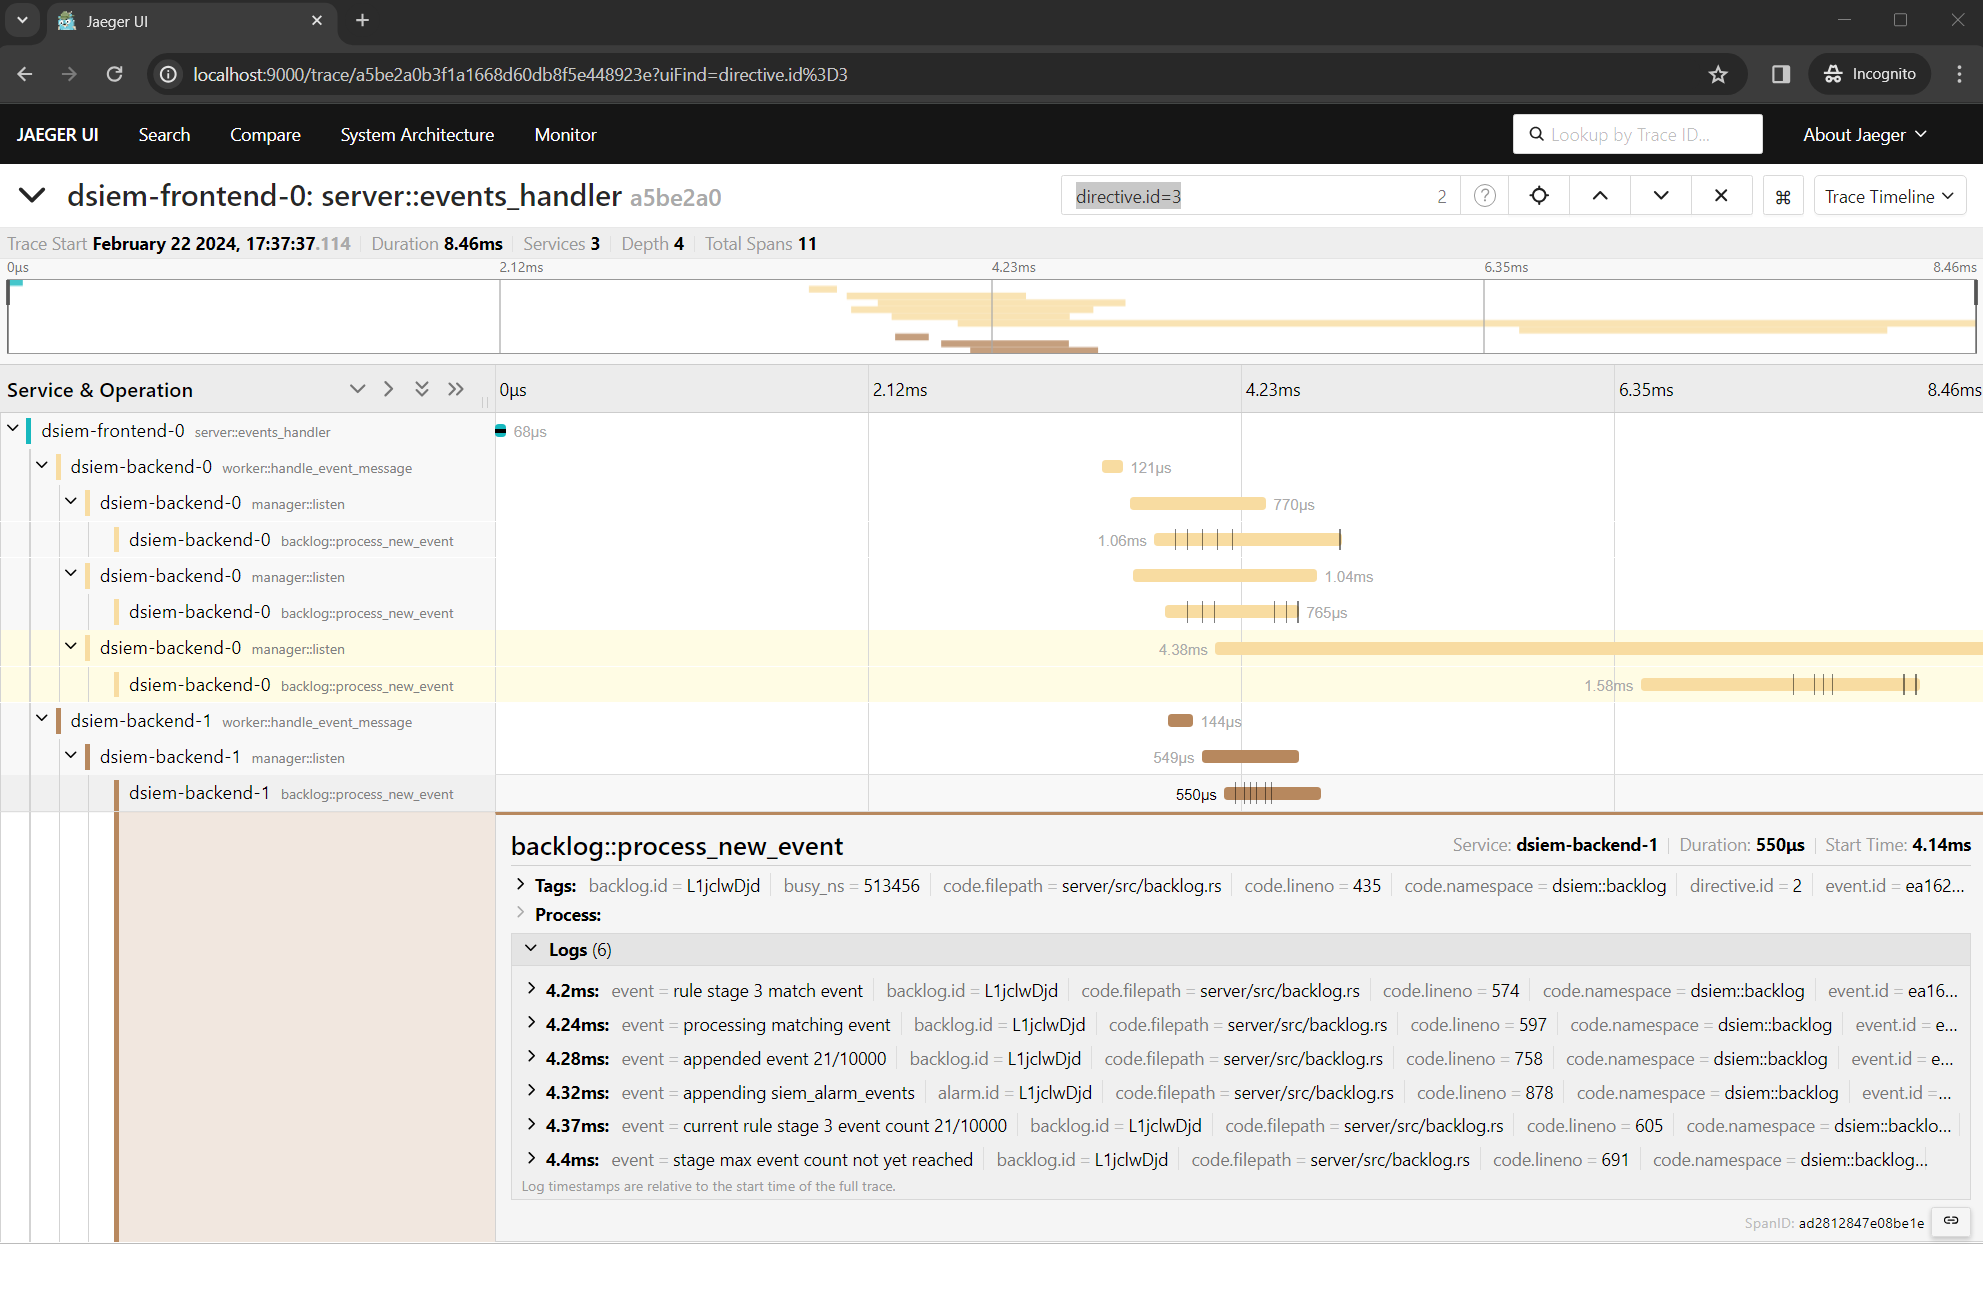
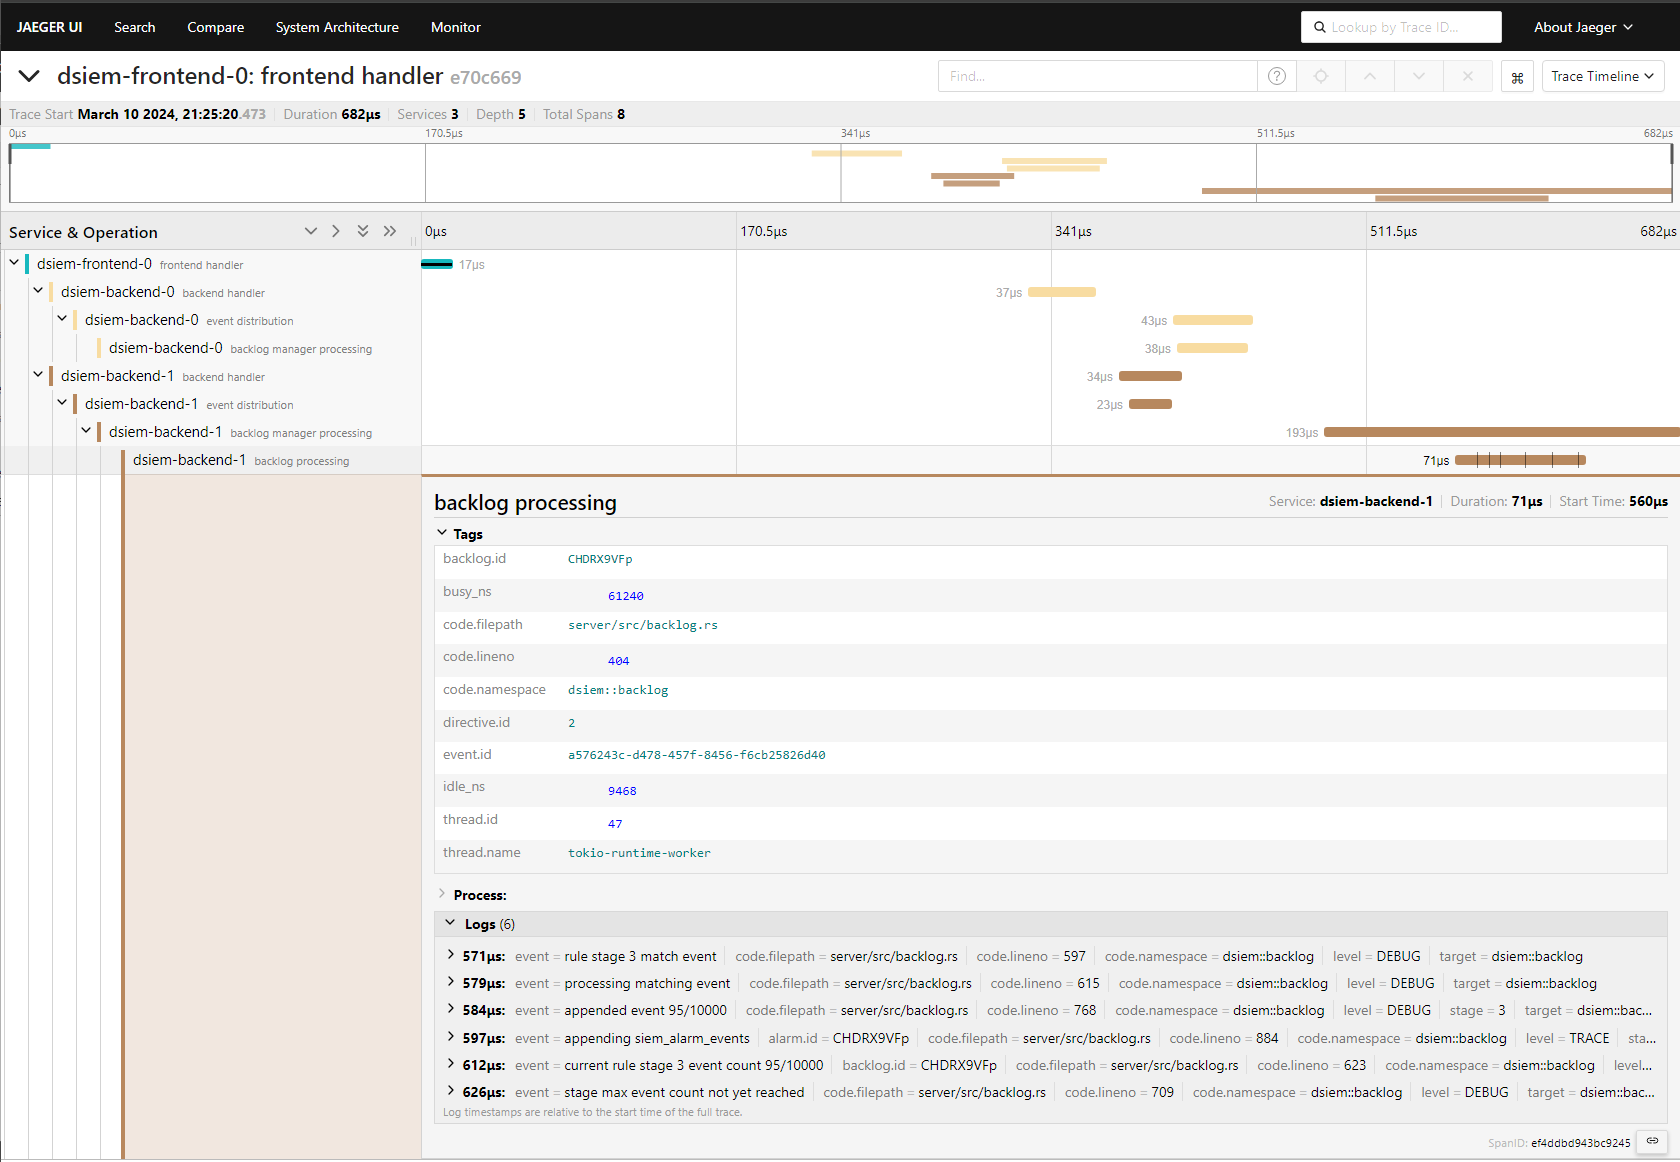
fix: otel fails to load due to missing tokio-rt (#31)
* fix: otel fail to load due to missing tokio-rt

* refactor: change runtime to current-thread

* docs: update otel screenshot

* chore: bump release

Changed region(s): [[0.0, 0.0, 1.0, 1.0], [0.7429, 0.3408, 1.0, 0.4337], [0.65, 0.9294, 0.681, 0.9604]]

diff --git a/server/src/bin/dsiem-backend.rs b/server/src/bin/dsiem-backend.rs
@@ -247,38 +247,15 @@ fn main() -> ExitCode {
 }
 
 fn log_startup_err(context: &str, err: Error) -> Error {
+    _ = tracing_subscriber::fmt().try_init();
     error!("error {}: {}", context, err);
     err
 }
 
 fn serve(listen: bool, require_logging: bool, args: Cli) -> Result<()> {
     let test_env = args.test_env;
-    let verbosity = if args.debug {
-        1
-    } else if args.trace {
-        2
-    } else {
-        args.verbosity
-    };
-    let SubCommands::ServeCommand(sargs) = args.subcommand;
-    let log_format = if args.use_json {
-        tracer::LogType::Json
-    } else {
-        tracer::LogType::Plain
-    };
-    let otel_config = tracer::OtelConfig {
-        tracing_enabled: sargs.enable_tracing,
-        metrics_enabled: sargs.enable_metrics,
-        otlp_endpoint: sargs.otel_endpoint,
-        service_name: sargs.node.to_owned(),
-    };
 
-    let subscriber = tracer::setup(verbosity, log_format, otel_config.clone())
-        .map_err(|e| log_startup_err("setting up tracer", e))?;
-    let setup_result = tracing::subscriber::set_global_default(subscriber);
-    if require_logging {
-        setup_result?;
-    }
+    let SubCommands::ServeCommand(sargs) = args.subcommand;
 
     // we take in unsigned values from CLI to make sure there's no negative numbers, and convert them
     // to signed value required by timestamp related APIs.
@@ -300,10 +277,25 @@ fn serve(listen: bool, require_logging: bool, args: Cli) -> Result<()> {
         sargs.max_queue
     };
 
-    info!(
-        "starting dsiem backend server with frontend {} and message queue {}",
-        sargs.frontend, sargs.msq
-    );
+    let log_verbosity = if args.debug {
+        1
+    } else if args.trace {
+        2
+    } else {
+        args.verbosity
+    };
+
+    let log_format = if args.use_json {
+        tracer::LogType::Json
+    } else {
+        tracer::LogType::Plain
+    };
+    let otel_config = tracer::OtelConfig {
+        tracing_enabled: sargs.enable_tracing,
+        metrics_enabled: sargs.enable_metrics,
+        otlp_endpoint: sargs.otel_endpoint,
+        service_name: sargs.node.to_owned(),
+    };
 
     let (event_tx, _) = broadcast::channel::<NormalizedEvent>(max_queue);
     let (bp_tx, bp_rx) = mpsc::channel::<()>(8);
@@ -317,45 +309,56 @@ fn serve(listen: bool, require_logging: bool, args: Cli) -> Result<()> {
     config::download_files(
         test_env,
         Some(vec!["dl_config".to_string()]),
-        sargs.frontend,
+        sargs.frontend.clone(),
         sargs.node,
     )
     .map_err(|e| log_startup_err("downloading config", e))?;
+
+    let directives = directive
+    // todo: maybe replace this kludgy way of loading test directive5
+    ::load_directives(
+        test_env,
+        Some(vec!["directives".to_string(), "directive5".to_string()]),
+    )
+    .map_err(|e| log_startup_err("loading directives", e))?;
+
+    let eps = Arc::new(Eps::default());
+
+    let n = directives.len();
+    let max_eps = sargs.max_eps;
+    let (report_tx, report_rx) = mpsc::channel::<manager::ManagerReport>(n);
+    let (resptime_tx, resptime_rx) = mpsc::channel::<f64>(n);
+    let event_tx_clone = event_tx.clone();
+    let cancel_tx_clone = cancel_tx.clone();
+    let eps_clone = eps.clone();
+
+    let handle_watchdog = thread::spawn(move || {
+        let opt = WatchdogOpt {
+            event_tx: event_tx_clone,
+            resptime_rx,
+            report_rx,
+            cancel_tx: cancel_tx_clone,
+            report_interval: REPORT_INTERVAL_IN_SECONDS,
+            max_eps,
+            otel_config,
+            eps: eps_clone,
+            log_verbosity,
+            log_format,
+            require_logging,
+        };
+        let mut w = watchdog::Watchdog::default();
+        w.start(opt).map_err(|e| anyhow!("watchdog error: {:?}", e))
+    });
+
+    info!(
+        "starting dsiem backend server with frontend {} and message queue {}",
+        sargs.frontend, sargs.msq
+    );
 
     let assets = Arc::new(
         NetworkAssets::new(test_env, Some(vec!["assets".to_string()]))
             .map_err(|e| log_startup_err("loading assets", e))?,
     );
-
-    let backend_asset = assets.clone();
-    let backend_tx = event_tx.clone();
-
-    let eps = Arc::new(Eps::default());
-
-    let eps_clone = eps.clone();
-    let handle_worker = thread::spawn(move || {
-        let opt = worker::BackendOpt {
-            event_tx: backend_tx,
-            bp_rx,
-            cancel_rx,
-            assets: backend_asset,
-            nats_url: sargs.msq,
-            hold_duration: sargs.hold_duration,
-            nats_capacity: max_queue,
-            eps: eps_clone,
-        };
-        let w = worker::Worker {};
-        w.backend_start(opt)
-            .map_err(|e| anyhow!("worker error: {:?}", e))
-    });
-
-    let directives = directive
-        // todo: maybe replace this kludgy way of loading test directive5
-        ::load_directives(
-        test_env,
-        Some(vec!["directives".to_string(), "directive5".to_string()]),
-    )
-    .map_err(|e| log_startup_err("loading directives", e))?;
 
     let thread_allocation = calculate(
         directives.len(),
@@ -379,34 +382,14 @@ fn serve(listen: bool, require_logging: bool, args: Cli) -> Result<()> {
             .map_err(|e| log_startup_err("loading vulns", e))?,
     );
 
-    let n = directives.len();
-    let (report_tx, report_rx) = mpsc::channel::<manager::ManagerReport>(n);
-    let (resptime_tx, resptime_rx) = mpsc::channel::<f64>(n);
-
-    let max_eps = sargs.max_eps;
-
-    let cancel_tx_clone = cancel_tx.clone();
-    let event_tx_clone = event_tx.clone();
-    let handle_watchdog = thread::spawn(move || {
-        let opt = WatchdogOpt {
-            event_tx: event_tx_clone,
-            resptime_rx,
-            report_rx,
-            cancel_tx: cancel_tx_clone,
-            report_interval: REPORT_INTERVAL_IN_SECONDS,
-            max_eps,
-            otel_config,
-            eps,
-        };
-        let mut w = watchdog::Watchdog::default();
-        w.start(opt).map_err(|e| anyhow!("watchdog error: {:?}", e))
-    });
+    let backend_asset = assets.clone();
+    let backend_tx = event_tx.clone();
 
     let opt = ManagerOpt {
         test_env,
         reload_backlogs: sargs.reload_backlogs,
         directives,
-        assets,
+        assets: backend_asset,
         intels,
         vulns,
         max_delay,
@@ -414,7 +397,7 @@ fn serve(listen: bool, require_logging: bool, args: Cli) -> Result<()> {
         backpressure_tx: bp_tx,
         resptime_tx,
         cancel_tx: cancel_tx.clone(),
-        publisher: event_tx,
+        publisher: backend_tx,
         med_risk_max: sargs.med_risk_max,
         med_risk_min: sargs.med_risk_min,
         default_status: sargs.status[0].clone(),
@@ -430,6 +413,22 @@ fn serve(listen: bool, require_logging: bool, args: Cli) -> Result<()> {
         manager
             .start(REPORT_INTERVAL_IN_SECONDS)
             .map_err(|e| anyhow!("manager error: {:?}", e))
+    });
+
+    let handle_worker = thread::spawn(move || {
+        let opt = worker::BackendOpt {
+            event_tx,
+            bp_rx,
+            cancel_rx,
+            assets,
+            nats_url: sargs.msq,
+            hold_duration: sargs.hold_duration,
+            nats_capacity: max_queue,
+            eps,
+        };
+        let w = worker::Worker {};
+        w.backend_start(opt)
+            .map_err(|e| anyhow!("worker error: {:?}", e))
     });
 
     if listen {

diff --git a/server/src/watchdog.rs b/server/src/watchdog.rs
@@ -10,7 +10,11 @@ use tracing::{info, warn};
 
 pub mod eps;
 
-use crate::{event::NormalizedEvent, manager::ManagerReport, tracer::OtelConfig};
+use crate::{
+    event::NormalizedEvent,
+    manager::ManagerReport,
+    tracer::{self, OtelConfig},
+};
 
 pub const REPORT_INTERVAL_IN_SECONDS: u64 = 10;
 const UNIT_MULTIPLIER: f64 = 1000000.0; // nano to milli
@@ -26,11 +30,20 @@ pub struct WatchdogOpt {
     pub max_eps: u32,
     pub otel_config: OtelConfig,
     pub eps: Arc<eps::Eps>,
+    pub log_verbosity: u8,
+    pub log_format: tracer::LogType,
+    pub require_logging: bool,
 }
 
 impl Watchdog {
     #[tokio::main(flavor = "current_thread")]
     pub async fn start(&mut self, opt: WatchdogOpt) -> Result<()> {
+        let subscriber = tracer::setup(opt.log_verbosity, opt.log_format, opt.otel_config.clone())?;
+        let setup_result = tracing::subscriber::set_global_default(subscriber);
+        if opt.require_logging {
+            setup_result?;
+        }
+
         let mut report = interval(Duration::from_secs(opt.report_interval));
         let mut cancel_rx = opt.cancel_tx.subscribe();
         let mut resp_histo = HdrHistogram::with_bound(60 * 60 * 1000 * UNIT_MULTIPLIER as u64); // max 1 hour
@@ -146,6 +159,9 @@ mod test {
             max_eps,
             otel_config: OtelConfig::default(),
             eps,
+            log_verbosity: 0,
+            log_format: tracer::LogType::Plain,
+            require_logging: false,
         };
 
         let span = Span::current();

diff --git a/server/src/meter.rs b/server/src/meter.rs
@@ -23,7 +23,7 @@ fn meter_provider(config: OtelConfig) -> Result<SdkMeterProvider> {
             Box::new(DefaultAggregationSelector::new()),
             Box::new(DefaultTemporalitySelector::new()),
         )?;
-    let reader = PeriodicReader::builder(exporter, runtime::Tokio)
+    let reader = PeriodicReader::builder(exporter, runtime::TokioCurrentThread)
         .with_interval(Duration::from_secs(REPORT_INTERVAL_IN_SECONDS))
         .build();
     let provider = SdkMeterProvider::builder()

diff --git a/server/src/tracer.rs b/server/src/tracer.rs
@@ -67,7 +67,7 @@ pub fn setup(
                 .with_trace_config(trace::config().with_resource(Resource::new(vec![
                     KeyValue::new("service.name", otel_config.service_name),
                 ])))
-                .install_batch(opentelemetry_sdk::runtime::Tokio)?;
+                .install_batch(opentelemetry_sdk::runtime::TokioCurrentThread)?;
 
         Some(tracing_opentelemetry::layer().with_tracer(tracer))
     } else {
